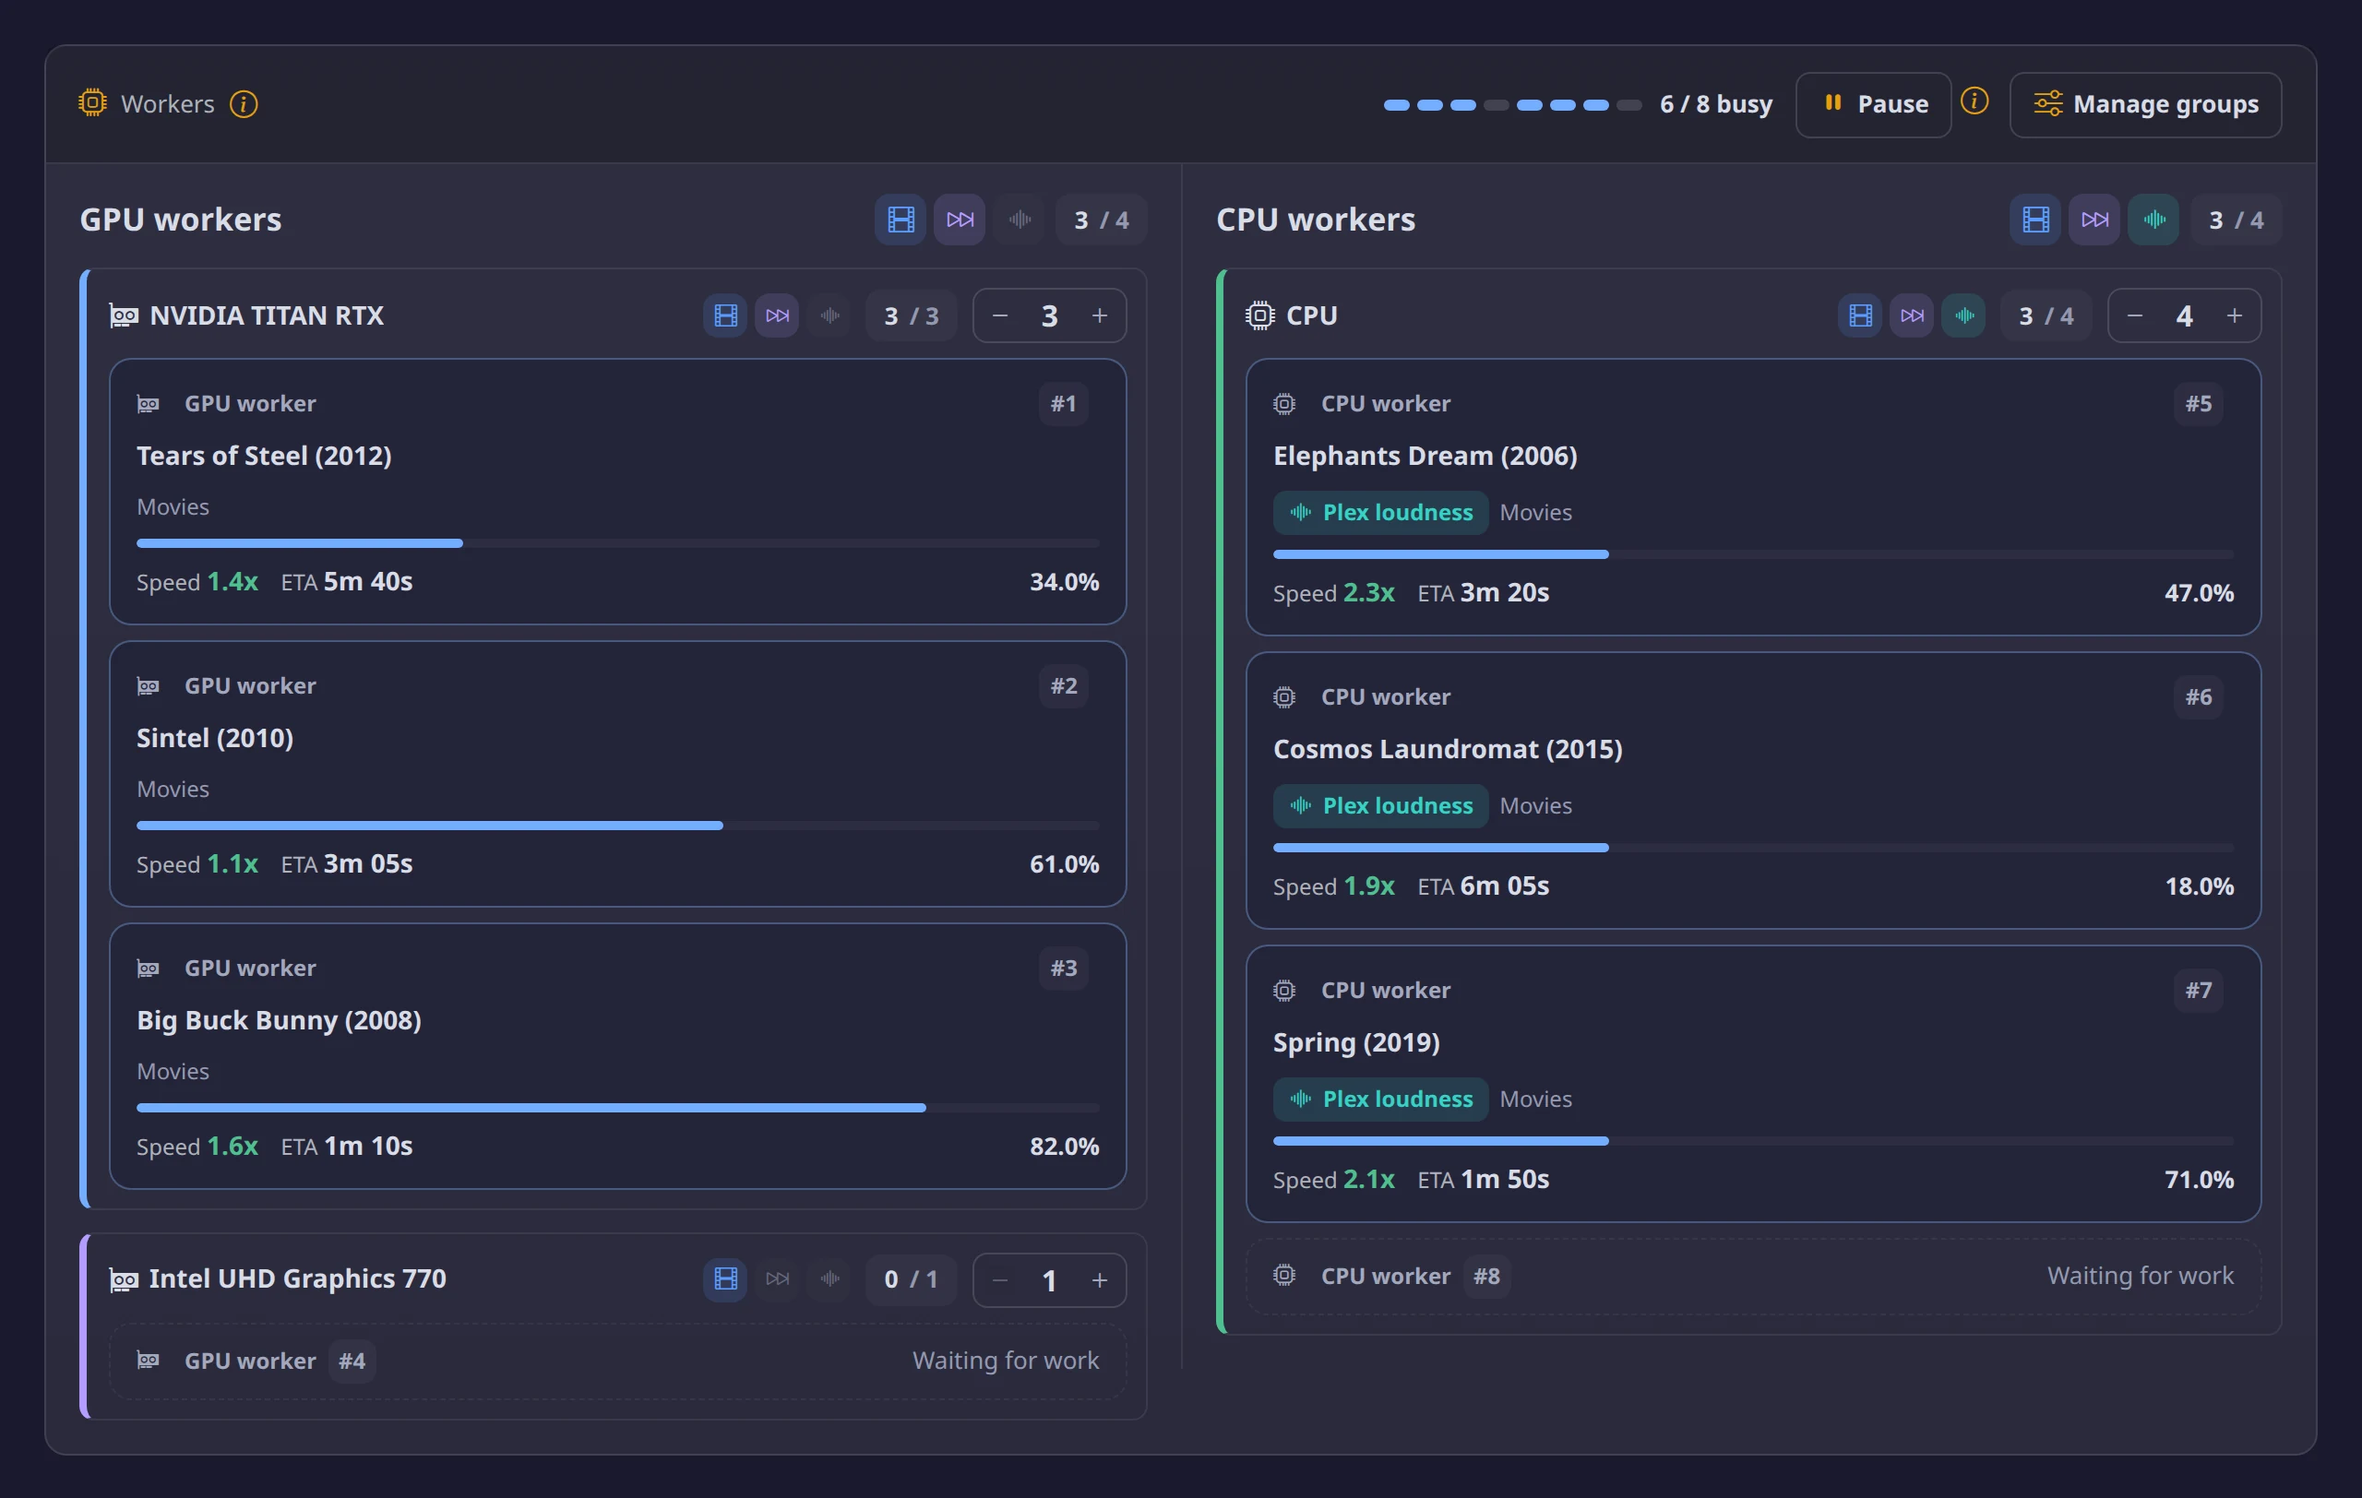
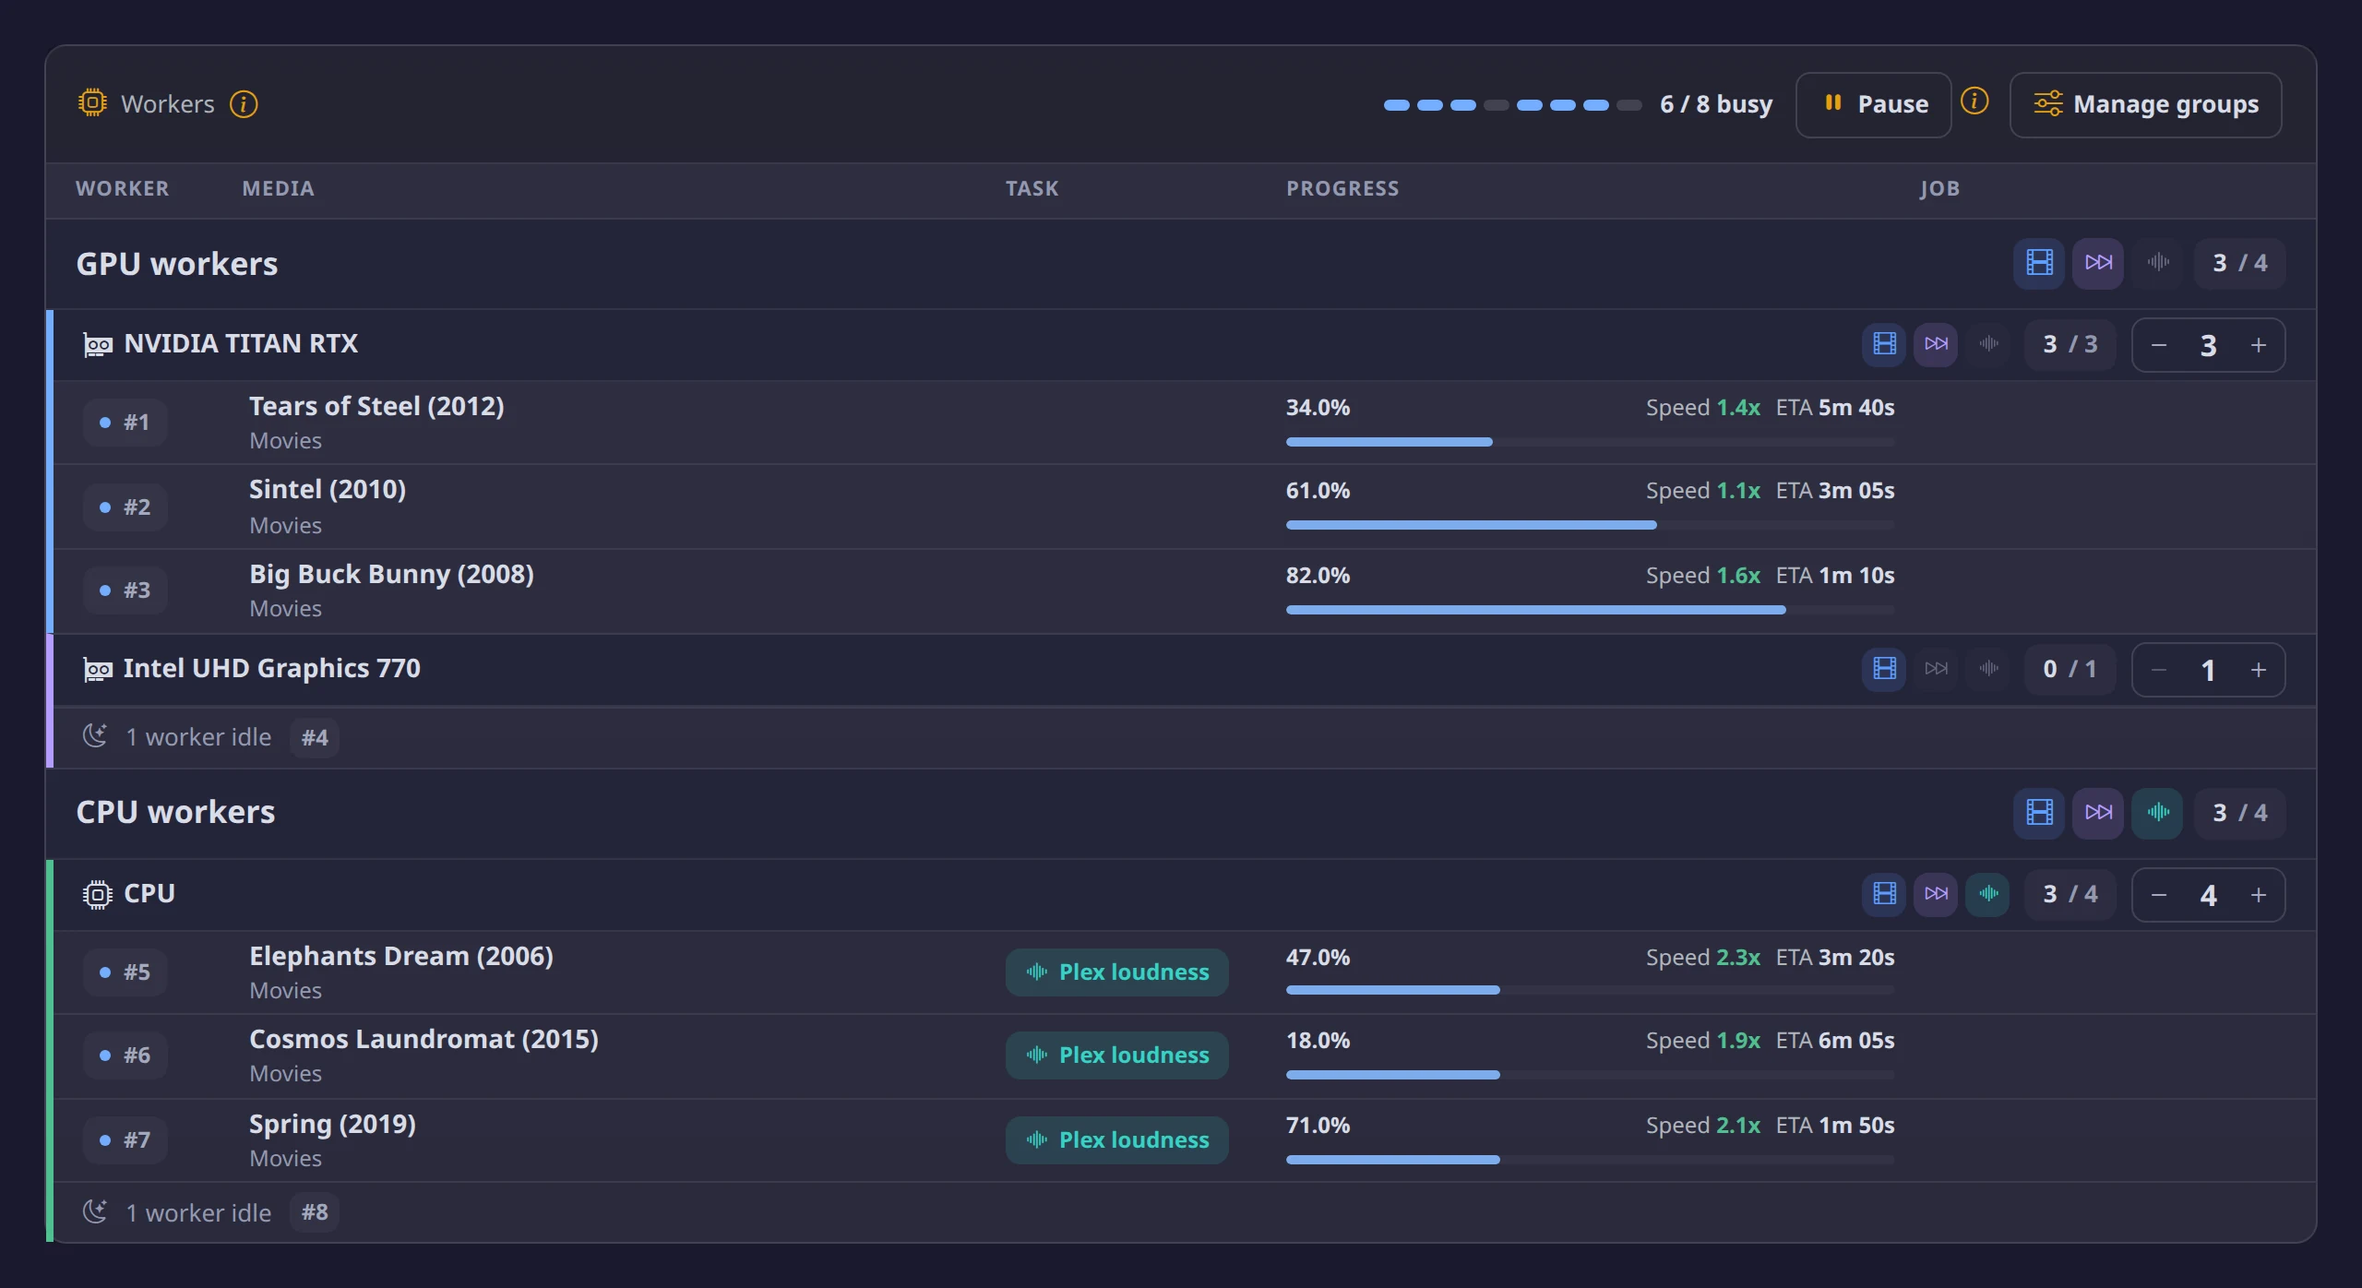
feat(web): Workers panel always uses the table view
The view no longer flips between cards and the table when a device goes from 5
to 4 workers. Dashboard screenshot and docs updated.

diff --git a/media_preview_generator/web/static/js/worker_groups.js b/media_preview_generator/web/static/js/worker_groups.js
@@ -24,8 +24,6 @@
     let groupSearch = '';
     let occupiedOnly = false;
     let showAllGroups = false;
-    // A member with this many workers or more switches the Workers panel to the dense table.
-    const DENSE_TABLE_MIN_WORKERS = 5;
     // Rows shown per member before the "Show N more" expander; problem rows are always shown.
     const DENSE_TABLE_ROW_CAP = 8;
     const EXPANDED_KEY = 'workerGroupsExpanded';
@@ -696,7 +694,7 @@
                 replaceDashboardHeader(entry, `<div class="worker-group-description"><strong>${escape(entry.name || 'Workers without group details')}</strong><span class="small text-body-secondary">Live worker activity remains visible while group details refresh.</span></div>`);
             }
         }
-        denseMode = snapshot.groups.some(group => group.enabled && group.members.some(member => member.count >= DENSE_TABLE_MIN_WORKERS));
+        denseMode = snapshot.groups.some(group => group.enabled);
         const liveRows = document.getElementById('workerGroupLiveRows');
         liveRows.classList.toggle('wg-dense', denseMode);
         document.getElementById('workerGroupCols').hidden = !denseMode;

diff --git a/tests/e2e/test_workers_dense_table.py b/tests/e2e/test_workers_dense_table.py
@@ -1,4 +1,4 @@
-"""E2E tests for the dense Workers table (any enabled member with 5+ workers) and its per-member row cap."""
+"""E2E tests for the dense Workers table (always on, whatever the worker count) and its per-member row cap."""
 
 from __future__ import annotations
 
@@ -127,27 +127,10 @@ def _loudness_example() -> tuple[list[dict], list[dict]]:
 
 @pytest.mark.e2e
 class TestLayoutSwitch:
-    def test_cards_layout_is_kept_when_every_member_has_four_or_fewer_workers(
-        self, authed_page: Page, app_url: str
-    ) -> None:
-        cpu = _group("cpu", "CPU workers", 4)
-        _open(authed_page, app_url, [cpu], [_worker(cpu, n, busy=n < 3) for n in range(1, 5)])
-        expect(authed_page.locator("#workerGroupLiveRows.wg-dense")).to_have_count(0)
-        expect(authed_page.locator("#workerGroupCols")).to_be_hidden()
-        expect(authed_page.locator("#workerGroupLiveRows .worker-slot:visible")).to_have_count(4)
-        expect(authed_page.locator("#workerGroupLiveRows .wg-idle-row:visible")).to_have_count(0)
-        expect(authed_page.locator("#workerGroupLiveRows .wg-more:visible")).to_have_count(0)
-        display = authed_page.locator("#workerGroupLiveRows").evaluate("e => getComputedStyle(e).display")
-        assert display == "grid"
-        idle_card = authed_page.locator('[data-worker-key="CPU_3"] [data-card]')
-        expect(idle_card).to_have_class("card workers-panel-card wk idle")
-
-    @pytest.mark.parametrize("count", [5, 7, 20])
-    def test_table_layout_is_used_when_a_member_has_five_or_more_workers(
-        self, authed_page: Page, app_url: str, count: int
-    ) -> None:
+    @pytest.mark.parametrize("count", [1, 4, 5, 12])
+    def test_table_layout_is_used_whatever_the_worker_count(self, authed_page: Page, app_url: str, count: int) -> None:
         cpu = _group("cpu", "CPU workers", count)
-        busy = 3
+        busy = min(3, count)
         _open(authed_page, app_url, [cpu], [_worker(cpu, n, busy=n <= busy) for n in range(1, count + 1)])
         expect(authed_page.locator("#workerGroupLiveRows.wg-dense")).to_have_count(1)
         rows = authed_page.locator(ROWS)
@@ -162,25 +145,24 @@ class TestLayoutSwitch:
             expect(row.locator("[data-progress-wrap]")).to_be_visible()
             expect(row.locator("[data-worker-job]")).to_have_text(JOB.format(n)[:8])
             expect(row.locator("[data-worker-logs]")).to_be_visible()
+        expect(authed_page.locator("#workerGroupCols")).to_be_visible()
         idle = authed_page.locator("[data-group-idle='cpu:m1']")
-        expect(idle).to_have_text(re.compile(rf"{count - busy} workers idle"))
+        if count == busy:
+            expect(idle).to_be_hidden()
+            expect(authed_page.locator("[data-group-id='cpu'] .occ-chip")).to_contain_text(f"{busy}/ {count}")
+            return
+        expect(idle).to_have_text(re.compile(rf"{count - busy} workers? idle"))
         for n in range(busy + 1, count + 1):
             expect(idle.locator(".wg-idle-n", has_text=f"#{n}")).to_have_count(1)
         expect(authed_page.locator("[data-group-id='cpu'] .occ-chip")).to_contain_text(f"{busy}/ {count}")
 
-    def test_three_plus_three_group_stays_cards_and_a_five_worker_member_turns_the_table_on(
-        self, authed_page: Page, app_url: str
-    ) -> None:
+    def test_three_plus_three_group_uses_the_table(self, authed_page: Page, app_url: str) -> None:
         group = _multi_group("g", "Mixed", [_member("m-gpu", 3, "gpu"), _member("m-cpu", 3)])
         workers = [_worker(group, n, busy=True, member=0) for n in (1, 2, 3)]
         workers += [_worker(group, n, busy=True, member=1) for n in (4, 5, 6)]
         _open(authed_page, app_url, [group], workers)
-        expect(authed_page.locator("#workerGroupLiveRows.wg-dense")).to_have_count(0)
-        expect(authed_page.locator("#workerGroupLiveRows .wg-mem")).to_have_count(2)
-        group["members"][1]["count"] = 5
-        workers += [_worker(group, n, busy=False, member=1) for n in (7, 8)]
-        _open(authed_page, app_url, [group], workers)
         expect(authed_page.locator("#workerGroupLiveRows.wg-dense")).to_have_count(1)
+        expect(authed_page.locator("#workerGroupLiveRows .wg-mem")).to_have_count(2)
 
     def test_panel_is_compact_for_the_seven_worker_loudness_example(self, authed_page: Page, app_url: str) -> None:
         groups, workers = _loudness_example()

diff --git a/tests/e2e/test_dashboard_followups.py b/tests/e2e/test_dashboard_followups.py
@@ -219,7 +219,7 @@ class TestWorkerGroupHeaderStaysInItsColumn:
         groups = mock_worker_groups(authed_page)
         groups["state"]["hardware"][0]["name"] = LONG_DEVICE
         groups["state"]["groups"].append({**groups["state"]["groups"][0], "id": "cpu-loud", "name": "CPU loudness"})
-        authed_page.set_viewport_size({"width": 1280, "height": 900})
+        authed_page.set_viewport_size({"width": 390, "height": 900})
         authed_page.goto(app_url + "/")
         hardware = authed_page.locator('[data-member-block="gpu:m1"] .devname .nm')
         expect(hardware).to_have_attribute("title", LONG_DEVICE)

diff --git a/tests/e2e/test_dashboard_polish.py b/tests/e2e/test_dashboard_polish.py
@@ -167,8 +167,8 @@ def test_worker_identity_and_open_file_survive_progress_and_status_updates(
     assert page.evaluate("document.documentElement.scrollWidth <= innerWidth")
     workers[0].update(status="idle", paused=False, retiring=False, job_id=None)
     page.evaluate("workers => updateWorkerStatuses(workers)", workers)
-    expect(preview.locator("[data-current-job]")).to_be_hidden()
-    expect(preview.get_by_text("#42", exact=True)).to_be_visible()
+    expect(preview).to_be_hidden()
+    expect(page.locator("[data-group-idle]").get_by_text("#42", exact=True)).to_be_visible()
 
 
 @pytest.mark.e2e

diff --git a/docs/design/worker-group-members.md b/docs/design/worker-group-members.md
@@ -31,7 +31,7 @@ only)**. Existing installs migrate 1:1 with no reset. Every current function sta
 | D5 | Migration v22: each v21 group → same `id`, `name`, `enabled`, `availability` + one member `{"id": "m1", resource, device, count, job_types}`. Revision +1. | 1:1, deterministic ids so worker ownership never churns; revision bump forces stale browser tabs to reload instead of overwriting. |
 | D6 | The runtime keeps working on a flat list. `worker_groups.member_policies(groups)` flattens every member into a dict that looks exactly like a v21 group plus `group_id` and `member_id`. | Pool, capacity, peak and gate code keep their proven logic; only the edges (schema, API, UI) learn nesting. |
 | D7 | `PUT /api/worker-groups` still accepts the flat v21 group shape (converted to one member `m1`). `GET` echoes `resource`/`device`/`count`/`job_types` on single-member groups (deprecated, read-only). `POST /worker-groups/<id>/scale {"delta"}` still works on single-member groups. New: `POST /worker-groups/<group>/members/<member>/scale`. | API-token clients and stale tabs keep working through the upgrade. |
-| D8 | Dashboard: a group is one card; each member is a sub-row with its own busy/count and stepper; worker rows sit under their member. Dense table switches on when any enabled **member** has ≥ 5 workers; row cap (8) and "Show N more" are per member. | Owner's request; per-member trigger stops a 3 + 3 group flipping to the table. |
+| D8 | Dashboard: a group is one card; each member is a sub-row with its own busy/count and stepper; worker rows sit under their member. The dense table is always used (no card view, whatever the worker count); row cap (8) and "Show N more" are per member. | Owner's request; one layout means the panel never flips when a count changes. |
 | D9 | Week graph: one lane per member, coloured by device (same device = same colour everywhere). Legend lists devices. | Owner's request. |
 | D10 | Migration notice uses the existing one-shot "Settings migrated" notification card (`upgrade._USER_FACING_NOTES[22]`). | Zero new notice machinery; dismissal already persists. |
 | D11 | Job gate fix (§7): **a job kind that holds no slot goes first.** Ships first, on its own PR, independent of members. | Proven starvation at High priority; the owner wants simple. |
@@ -450,7 +450,7 @@ member, loudness only. **Duplicate group** copies members.
   its member row. A removed member still finishing shows "Removed device · n finishing" and no stepper.
 * Worker cards/rows sit under their member row. Idle workers fold into one muted line per member
   ("7 workers idle #4 #5 …").
-* Dense table: on when any enabled member has ≥ 5 workers (`DENSE_TABLE_MIN_WORKERS`, now per member). Row cap 8 per
+* Dense table: always on (the old `DENSE_TABLE_MIN_WORKERS` threshold is gone). Row cap 8 per
   member, busy first, problem rows always shown, "Show N more · k running" per member, expansion remembered per
   `group_id:member_id` in `localStorage` (`workerGroupsExpanded`; old group-id keys are simply ignored).
 * Filters/search (> 6 groups) unchanged; search text includes member device names.
@@ -779,7 +779,7 @@ kinds held).
 | textdet helper (`tests/test_live_cpu_worker_reconcile.py` or a new small test) | `_configured_cpu_workers` sums CPU members allowing intro that are available; GPU members and loudness-only CPU members excluded. |
 | `tests/test_job_gate_kind_share.py` (new) + `tests/test_job_gate_resources.py` | §7.5. |
 | `tests/e2e/test_worker_groups.py` | editor: add device, device picker disables used devices, GPU row loudness chip disabled with tooltip, CPU→GPU switch removes loudness with note, remove device, last-device refusal, Apply sends exact payload (assert member ids preserved), server 400 peak message shown, 409 conflict flow, 390 px: no horizontal scroll and every control ≥ 44 px. |
-| `tests/e2e/test_workers_dense_table.py` | 3 + 3 group stays cards; a 5-worker member turns the table on; cap 8 + "Show N more · k running" per member; expansion persists per `group:member`. |
+| `tests/e2e/test_workers_dense_table.py` | table at 1, 4, 5 and 12 workers and for a 3 + 3 group; cap 8 + "Show N more · k running" per member; expansion persists per `group:member`. |
 | `tests/e2e/test_ui_workers_panel.py` | member rows render under one card; stepper posts to `/api/worker-groups/<gid>/members/<mid>/scale` with `{"delta": 1}` (assert URL and body); retiring member row; missing-GPU chip. |
 | `tests/e2e/_mocks.py`, `tests/e2e/test_wizard_step4_processing.py`, `tests/e2e/test_dashboard*.py`, `tests/e2e/test_worker_loudness_button.py`, `tests/e2e/snapshots/readme_fixture.py` | payloads to v22; behaviour unchanged. |
 

diff --git a/docs/guides.md b/docs/guides.md
@@ -81,7 +81,7 @@ The top bar has **Dashboard**, **Servers**, **Automation**, **Settings** and **T
 - **Workers** — one card per worker group, with a row and **−** / **+** stepper for each device, and **Pause** / **Resume** and **Manage groups** in the header.
 - **Jobs** — the job queue, with status tabs, search, filters and per-job controls.
 
-**Dense worker table.** When an enabled device in a group has 5 or more workers, the Workers panel switches to a compact table. Busy workers and workers with a problem (a CPU fallback, say) come first. Idle workers fold into one line ("N workers idle"). A device with more than 8 rows shows the first 8 plus a **Show N more** button (**Show less** folds it back); rows with a problem always stay visible.
+**Dense worker table.** The Workers panel always shows a compact table, whatever the worker count. Busy workers and workers with a problem (a CPU fallback, say) come first. Idle workers fold into one line ("N workers idle"). A device with more than 8 rows shows the first 8 plus a **Show N more** button (**Show less** folds it back); rows with a problem always stay visible.
 
 > [!NOTE]
 > Jobs queue with priority (1 = high, 2 = normal, 3 = low). The dispatcher runs

diff --git a/DOCKERHUB_README.md b/DOCKERHUB_README.md
@@ -47,7 +47,7 @@ a marker in the Inspector.
 
 | One GPU pass per file |
 | --- |
-| ![Dashboard Workers panel: a GPU workers group (NVIDIA TITAN RTX with three workers making previews, Intel UHD Graphics 770 idle) beside a CPU workers group with three workers running Plex loudness analysis with percent, speed and ETA](https://raw.githubusercontent.com/stevezau/media_preview_generator/main/docs/images/tour-extract.webp) |
+| ![Workers panel as a table: busy GPU and CPU workers with percent, speed and ETA, idle workers folded into one line](https://raw.githubusercontent.com/stevezau/media_preview_generator/main/docs/images/tour-extract.webp) |
 
 | Each server gets its own format |
 | --- |

diff --git a/README.md b/README.md
@@ -69,7 +69,7 @@ a marker in the Inspector.
 
 | One GPU pass per file |
 | --- |
-| ![Dashboard Workers panel: a GPU workers group (NVIDIA TITAN RTX with three workers making previews, Intel UHD Graphics 770 idle) beside a CPU workers group with three workers running Plex loudness analysis with percent, speed and ETA](docs/images/tour-extract.webp) |
+| ![Workers panel as a table: busy GPU and CPU workers with percent, speed and ETA, idle workers folded into one line](docs/images/tour-extract.webp) |
 
 | Each server gets its own format |
 | --- |
